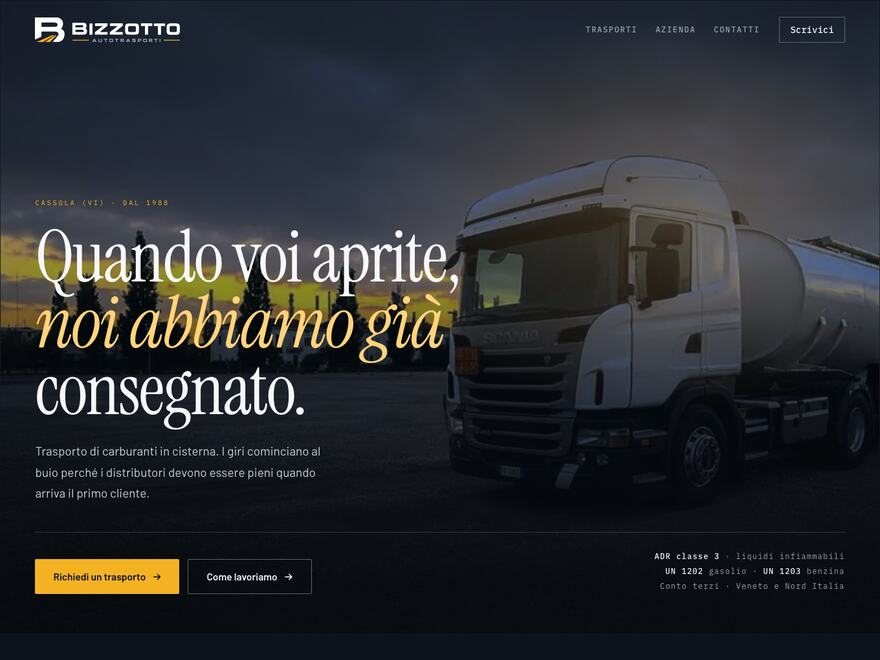
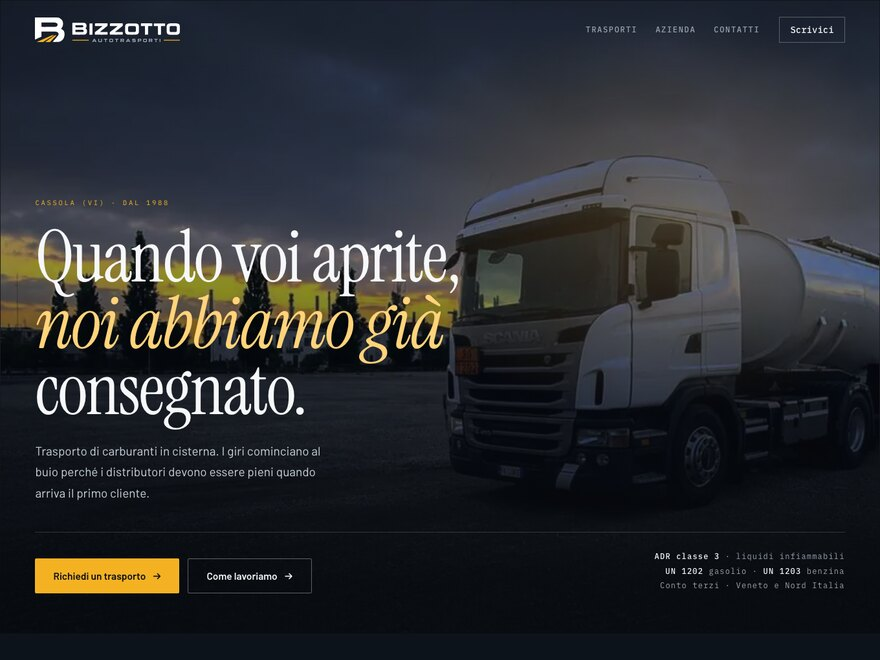
Pagina di scelta pronta da inviare: anteprime aggiornate, cosa succede dopo
- anteprime rigenerate (erano precedenti a finitura e interni)
- invito esplicito a rispondere con il nome della proposta
- note riscritte per chi non ha seguito il lavoro, più il riquadro sui passi successivi
- tolto il link ai materiali di lavoro dal footer

diff --git a/sito/index.html b/sito/index.html
@@ -52,9 +52,9 @@ footer{color:var(--ink);font:400 13px/1.7 var(--mono);padding-bottom:54px}
   <div class="wrap">
     <span class="lab">Autotrasporti Bizzotto Srl · Cassola (VI)</span>
     <h1>Tre proposte di sito, complete</h1>
-    <p>Non più una schermata sola: ogni proposta è un sito vero da sfogliare, con quattro
-    pagine e il menu che funziona. Stesso contenuto in tutte e tre, così quello che cambia
-    è solo il carattere.</p>
+    <p>Ogni proposta è un sito vero da sfogliare, con quattro pagine e il menu che funziona.
+    Il contenuto è lo stesso in tutte e tre: quello che cambia è il modo di presentarlo.
+    <b>Guardatele con calma e ditemi quale preferite</b> — basta il nome.</p>
   </div>
 </header>
 
@@ -128,17 +128,27 @@ footer{color:var(--ink);font:400 13px/1.7 var(--mono);padding-bottom:54px}
     <ul>
       <li><b>Entrate e navigate.</b> Il menu funziona: passate da Trasporti ad Azienda a Contatti come farebbe un committente che vi ha appena trovato.</li>
       <li><b>Il contenuto è identico</b> in tutte e tre, di proposito. Se una vi convince di più, è per come è fatta, non per cosa dice.</li>
-      <li>I <b>moduli non inviano nulla</b>: servono a far vedere quali dati chiediamo. Nel sito pubblicato la richiesta arriverà a <b>info@autotrasportibizzotto.it</b>.</li>
-      <li>Il <b>telefono non compare</b>, per scelta: il canale è il modulo.</li>
-      <li><b>«Dal 1988»</b> va confermato con la visura camerale prima di pubblicare.</li>
-      <li>Le <b>fotografie sono ritoccate</b>, non scatti definitivi: i pannelli ADR hanno numeri deformati e non reggono l'ingrandimento.</li>
+      <li><b>Funzionano anche dal telefono</b>: se le aprite dal cellulare vedete il sito come lo vedrà chi vi cerca da fuori.</li>
+      <li>I <b>moduli non inviano ancora nulla</b>: servono a far vedere quali dati chiediamo a chi scrive. Nel sito definitivo la richiesta arriverà a <b>info@autotrasportibizzotto.it</b>.</li>
+      <li>Il <b>numero di telefono non compare</b>, per scelta: il canale unico è il modulo, così ogni richiesta resta scritta.</li>
+      <li>I <b>testi sono una prima stesura</b>, da correggere insieme. <b>«Dal 1988»</b> in particolare va confermato con la visura camerale.</li>
+      <li>Le <b>fotografie sono le vostre</b>, sistemate per il web. In alcune i numeri sui pannelli ADR sono stati resi illeggibili di proposito: per il sito definitivo servirà qualche scatto nuovo.</li>
+    </ul>
+  </div>
+
+  <div class="note">
+    <h3>Cosa succede dopo la scelta</h3>
+    <ul>
+      <li>Si corregge il testo pagina per pagina, con le informazioni che ci date voi.</li>
+      <li>Si collega il modulo, così le richieste arrivano davvero in casella.</li>
+      <li>Si punta il sito su <b>autotrasportibizzotto.it</b> e si toglie il blocco ai motori di ricerca: da quel momento il sito è pubblico e cercabile.</li>
     </ul>
   </div>
 </main>
 
 <footer class="wrap">
   Autotrasporti Bizzotto Srl · Via Asiago 33, 36022 Cassola (VI) · P. IVA 02020960247<br>
-  Pagina di lavoro, non destinata al pubblico. · <a href="../">Torna ai materiali</a>
+  Pagina di lavoro: non compare sui motori di ricerca e si vede solo con questo indirizzo.
 </footer>
 </body>
 </html>
